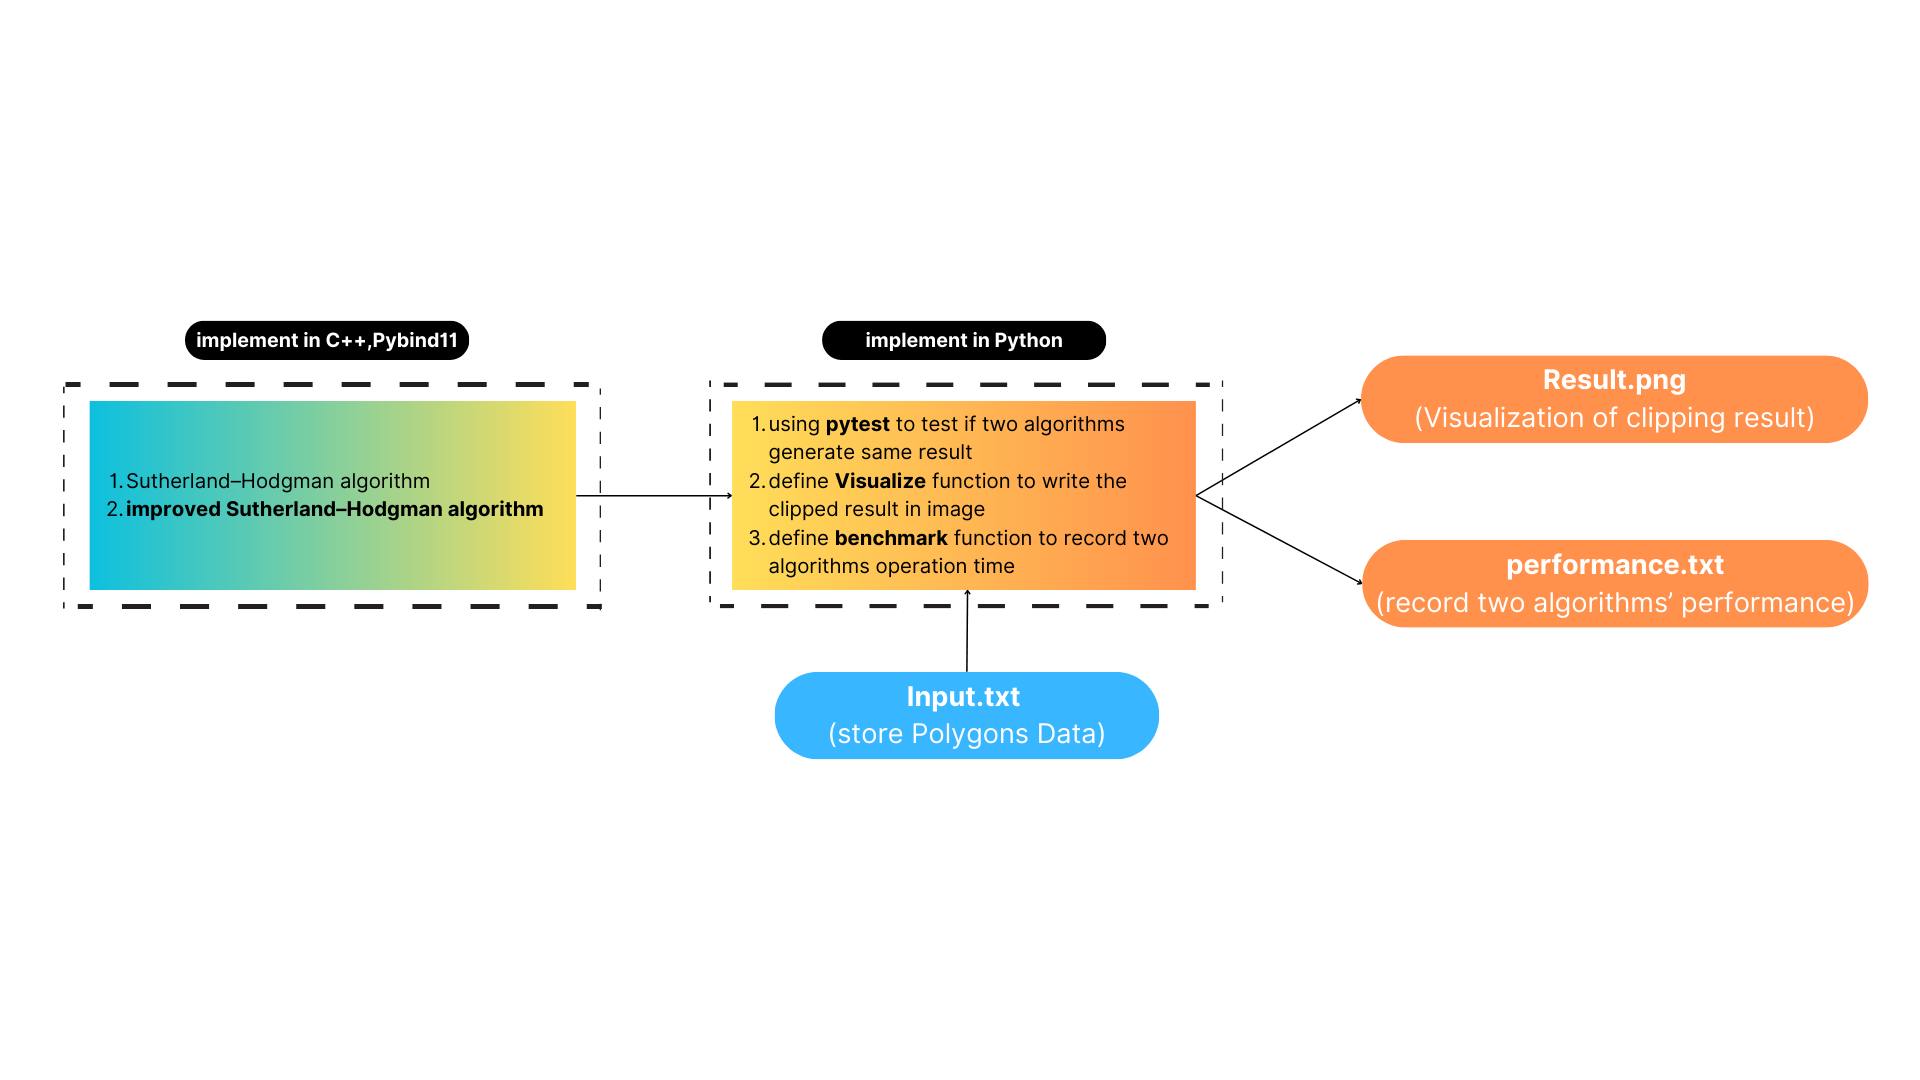
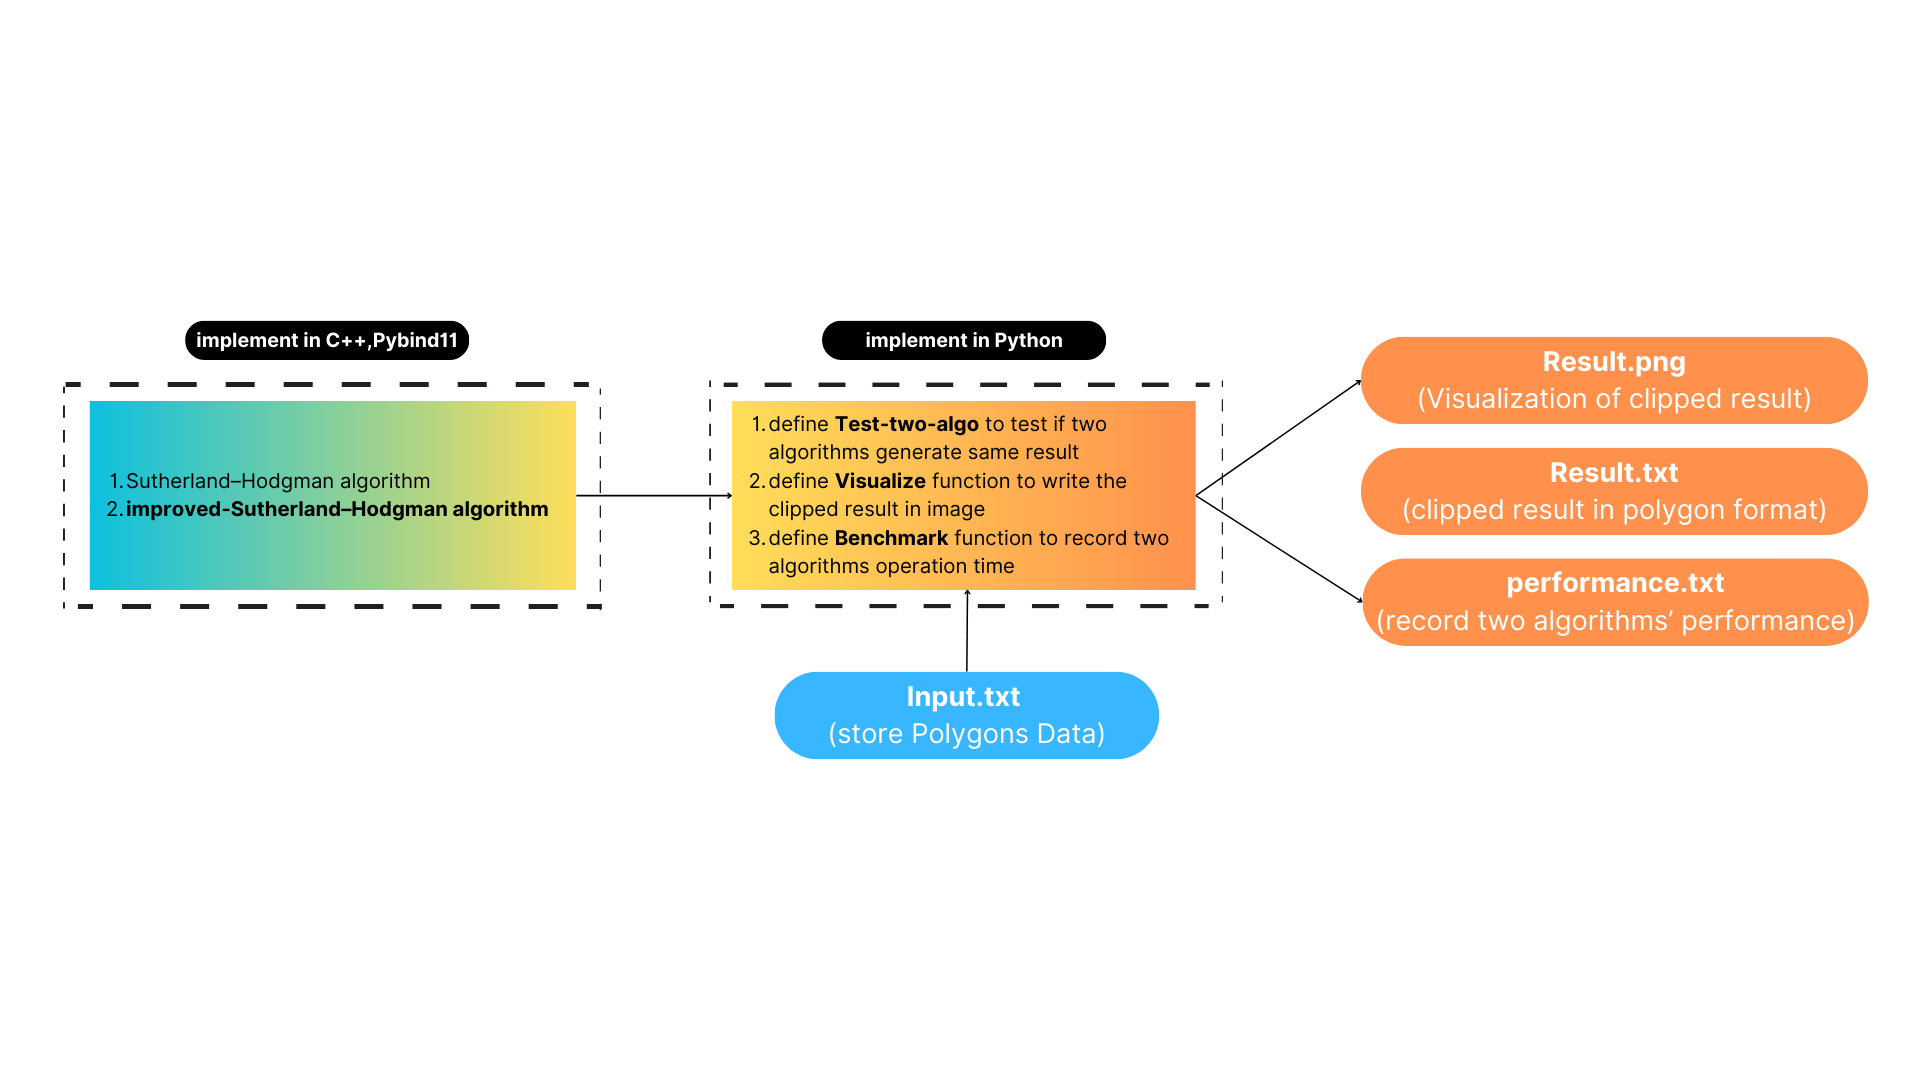
add API description

diff --git a/README.md b/README.md
@@ -25,7 +25,14 @@ In this work, we focus on improving the Sutherland–Hodgman algorithm, make it 
 
 ## API Description
 
-to be planned...
+1. Function in c++ file:
+    - `Sutherland–Hodgman`: Implement original Sutherland–Hodgman algorithm on polygon clipping
+    - `improved-Sutherland–Hodgman`: Implement redesined Sutherland–Hodgman algorithm
+2. Function in python file:
+    - `Test-two-algo`: Test if two algorithms generate same result and write result in polygon format into Result.txt
+    - `Visualize`: Write clipped result into Result.png
+    - `Benchmark`: Measure each algorithms' performance and write time consumption into performance.txt
+3. Use Pybind11 to wrap C++ functions for Python
 
 ## Engineering Infrastructure
 
